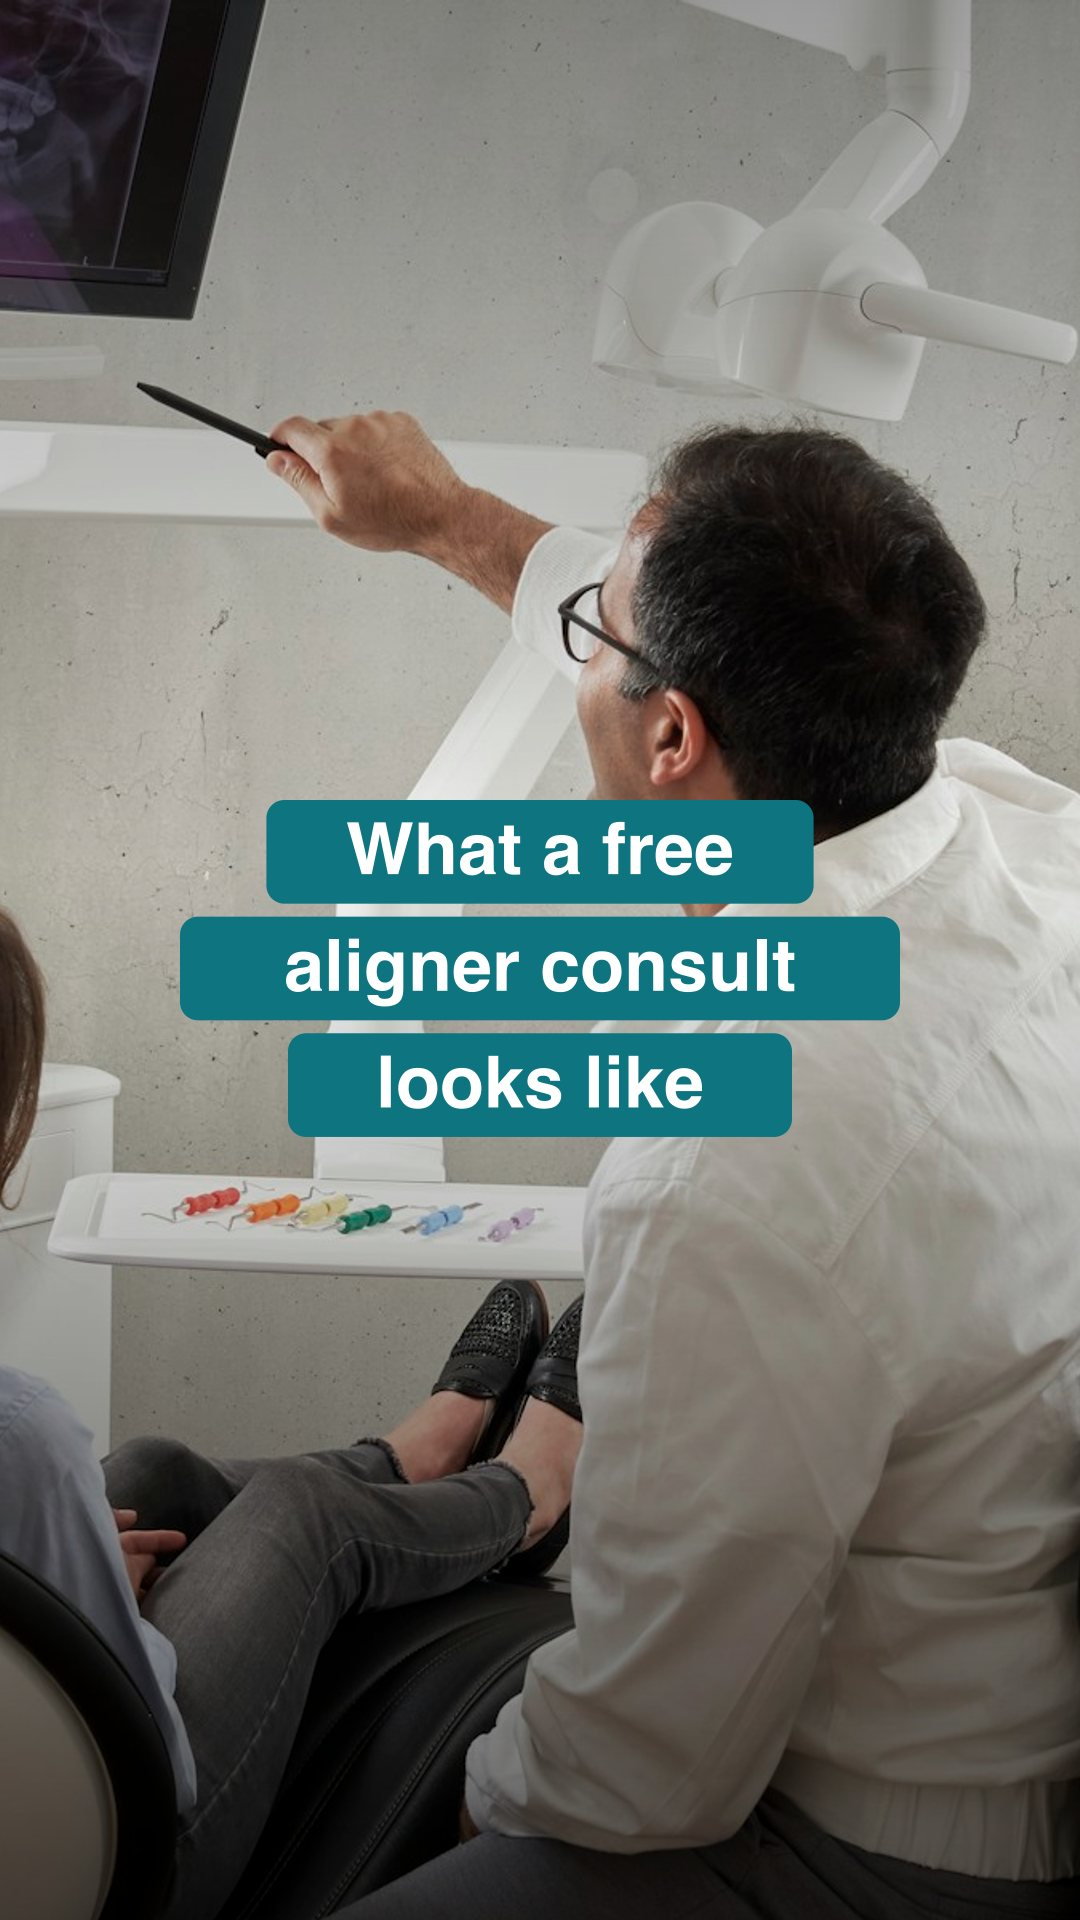
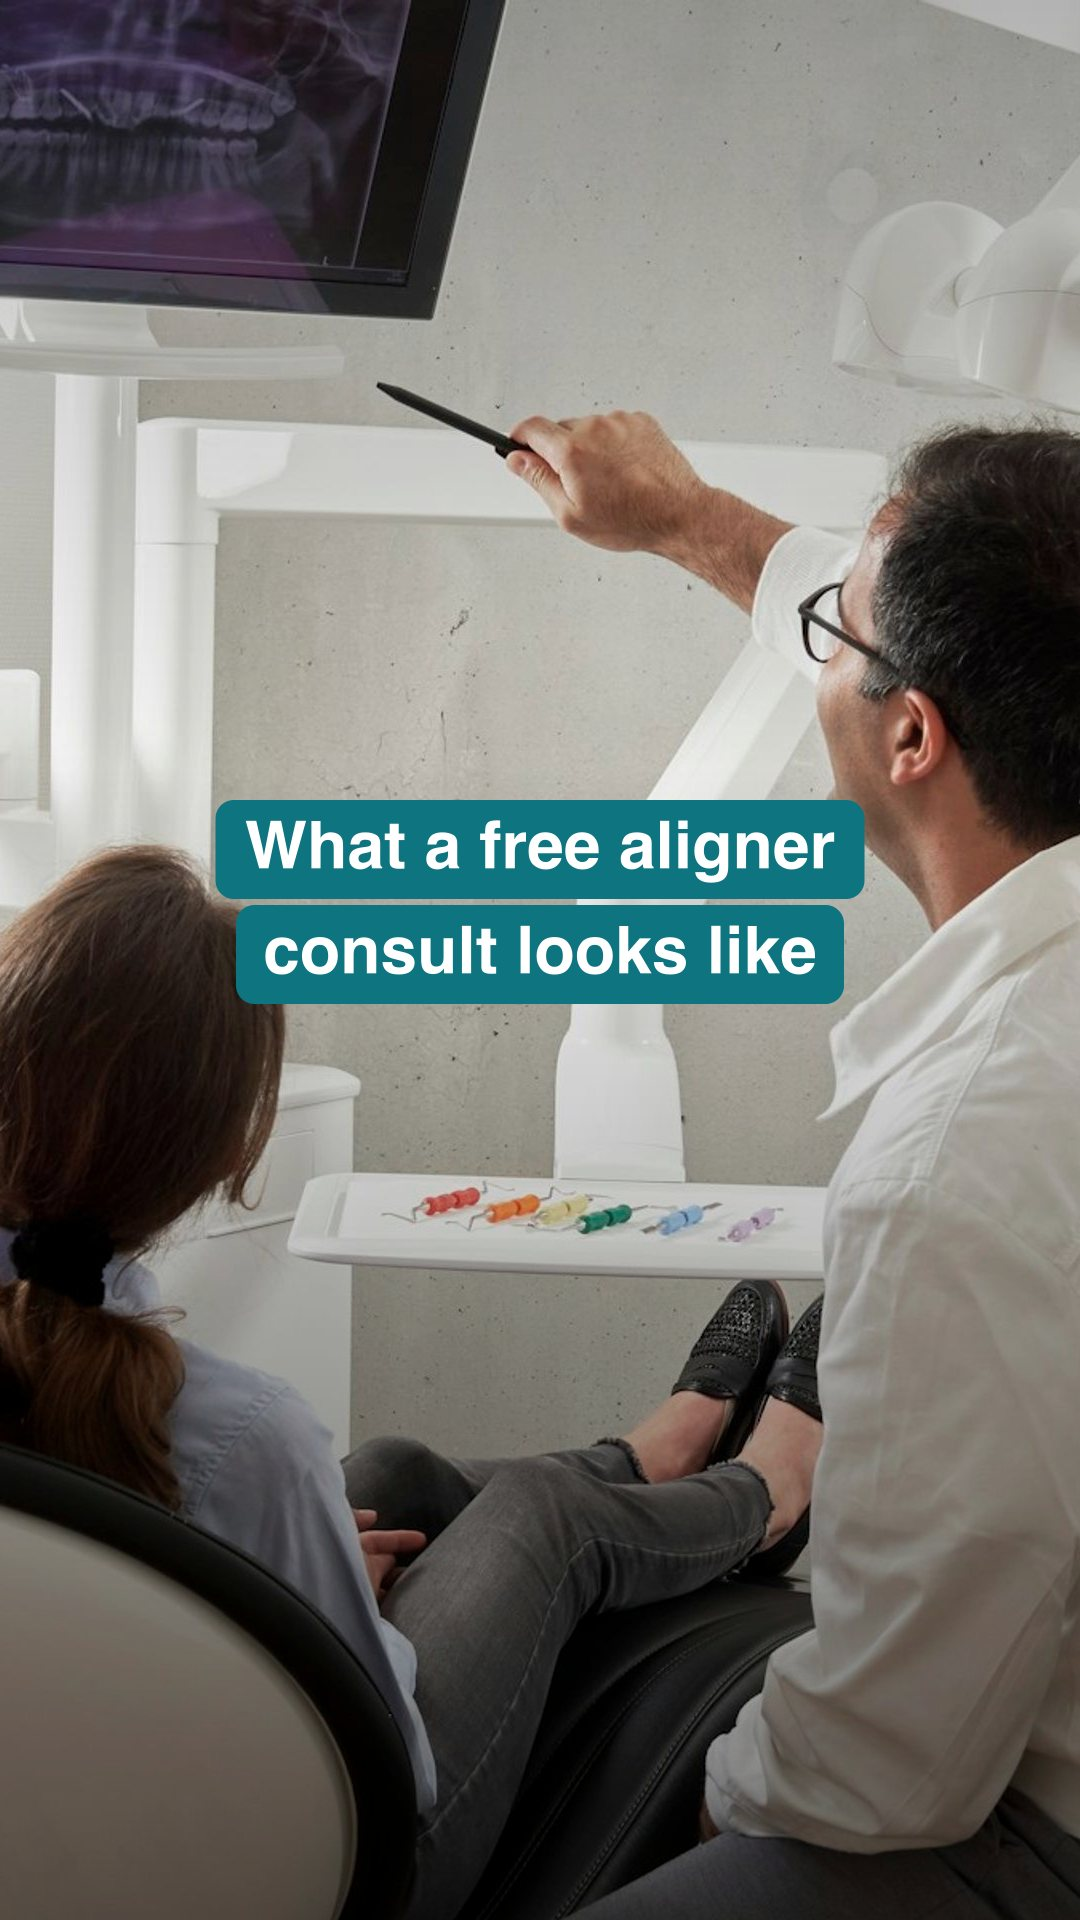
Meta ad hooks: new graded photos, redesigned captions within Reels safe zone

diff --git a/src/data/samples.ts b/src/data/samples.ts
@@ -148,7 +148,7 @@ export const videos: Record<
   // Ad mock-ups built by `node scripts/make-ad-mockups.mjs scripts/ads/aligner-consult.json`.
   ad: {
     poster: adHook1,
-    alt: 'Dentist on camera with the hook "Straighter teeth without metal braces?"',
+    alt: 'Smiling dentist on camera with the hook "Straighter teeth without metal braces?" and a caption',
     hook: 'Straighter teeth without metal braces?',
     caption: 'Meta ad · hook 1: talking head with title and captions',
     label: 'Ad · hook 1',
@@ -157,9 +157,9 @@ export const videos: Record<
   },
   adHook2: {
     poster: adHook2,
-    alt: 'Dentist answering a viewer comment: "Do clear aligners hurt?"',
+    alt: 'Patient touching her cheek, with a viewer comment "Do clear aligners hurt?" and the dentist\'s answer as a caption',
     hook: 'Do clear aligners hurt?',
-    caption: 'Same ad · hook 2: replying to a viewer’s comment',
+    caption: 'Same ad · hook 2: replying to a viewer’s comment over a patient shot',
     label: 'Ad · hook 2',
     duration: '0:25',
     textInPoster: true,

diff --git a/README.md b/README.md
@@ -57,7 +57,8 @@ Photos are only cropped and labelled, never colour-corrected.
 
 Meta ad mock-ups: edit the hooks, feed copy and photos in `scripts/ads/aligner-consult.json` (copy it for new ads),
 then run `node scripts/make-ad-mockups.mjs scripts/ads/aligner-consult.json`. It writes the first frame of each hook
-and a feed-post mock-up to `src/assets/images/ads/`.
+and a feed-post mock-up to `src/assets/images/ads/`. Each hook sets its photo, crop centre (`focusX`) and caption
+(`*word*` is highlighted); text is kept inside the Reels safe zone (top 14%, bottom 35%) and the script warns if not.
 
 Social post samples: edit `scripts/social/posts.json` (a `photo` post or a `carousel` of text slides), then run
 `node scripts/make-social-posts.mjs scripts/social/posts.json`. Images (1080×1350) go to `src/assets/images/social/`.
